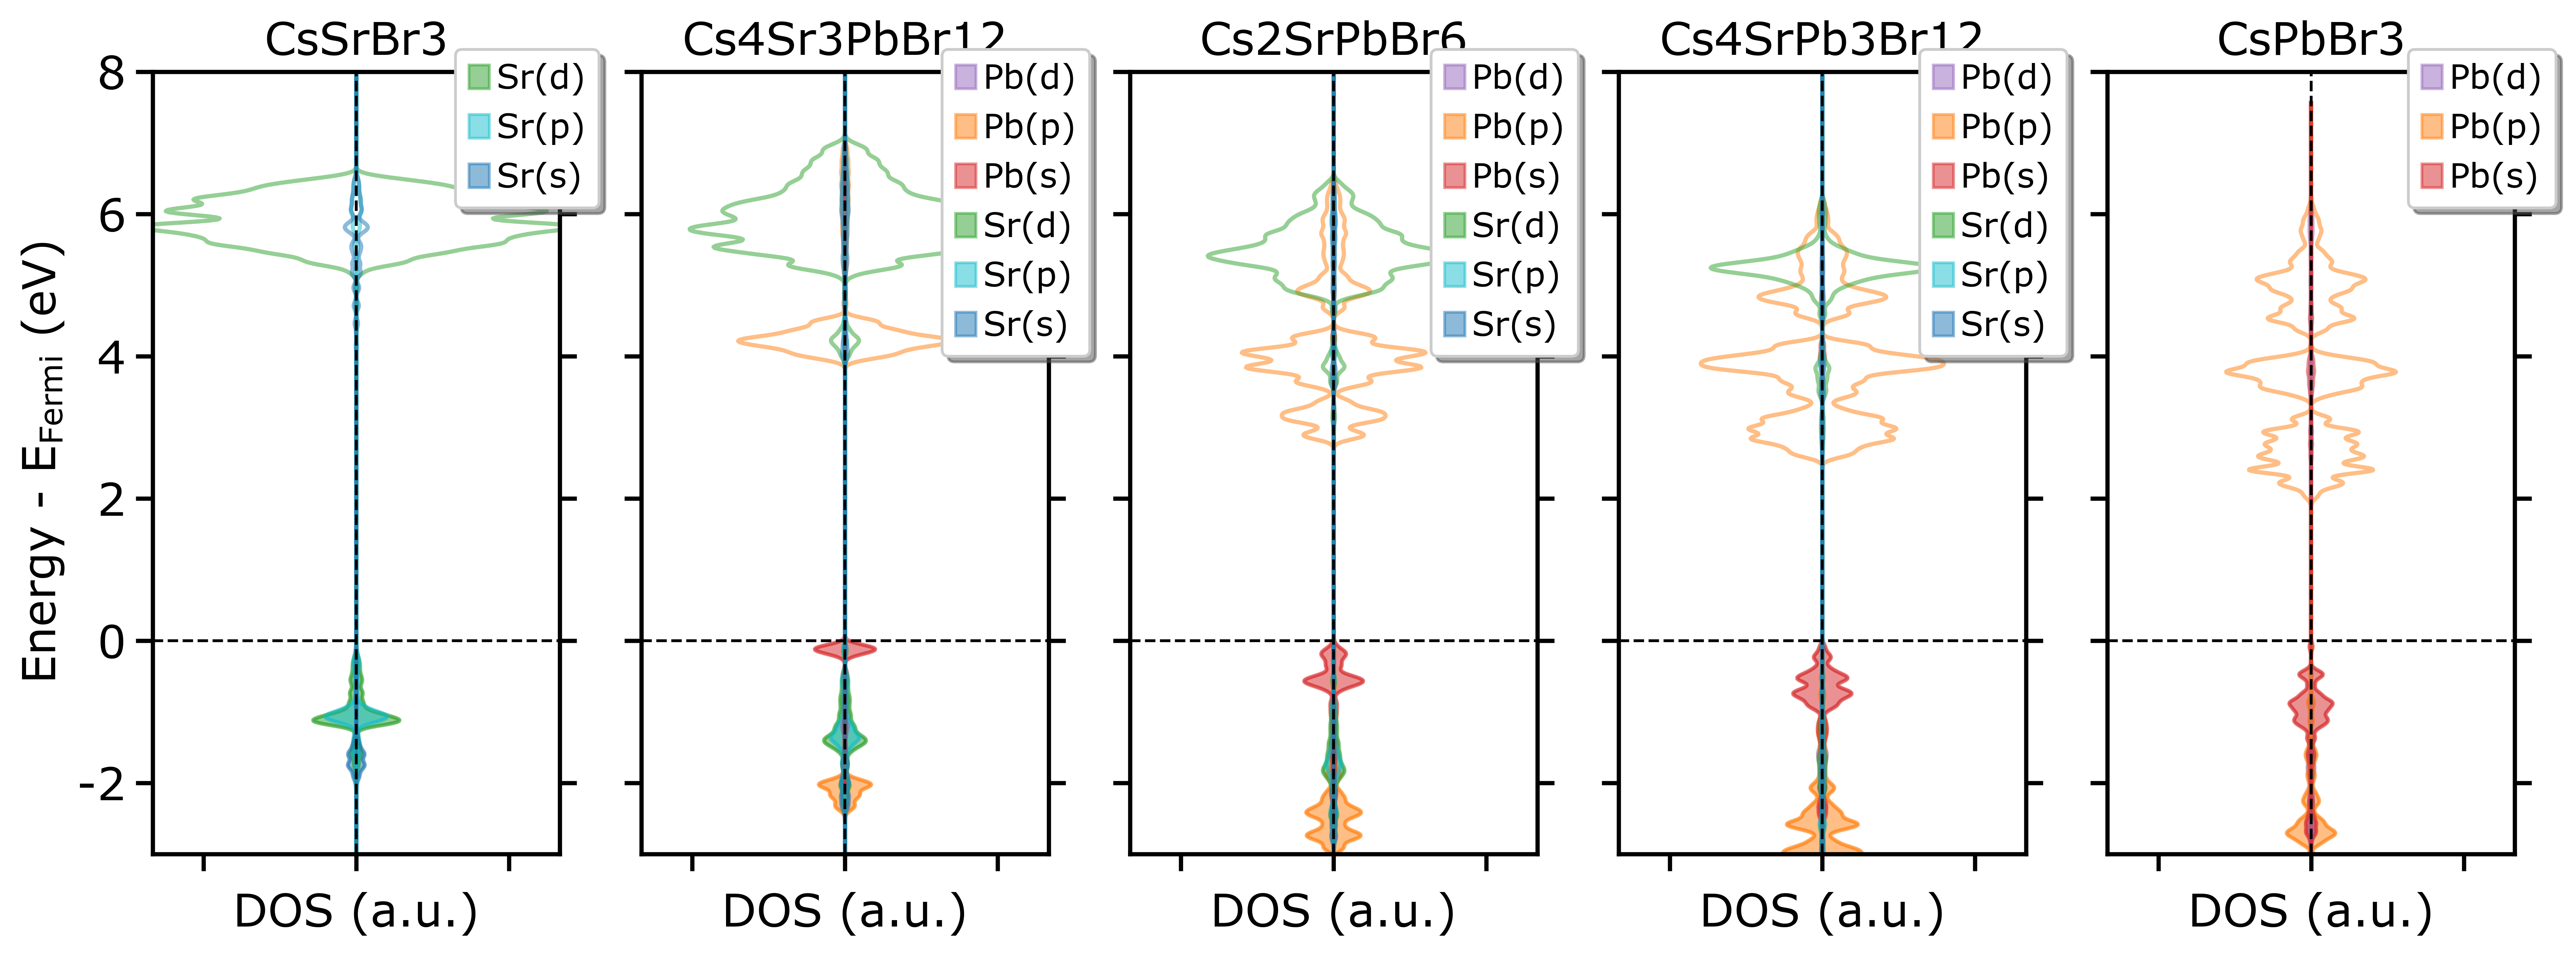
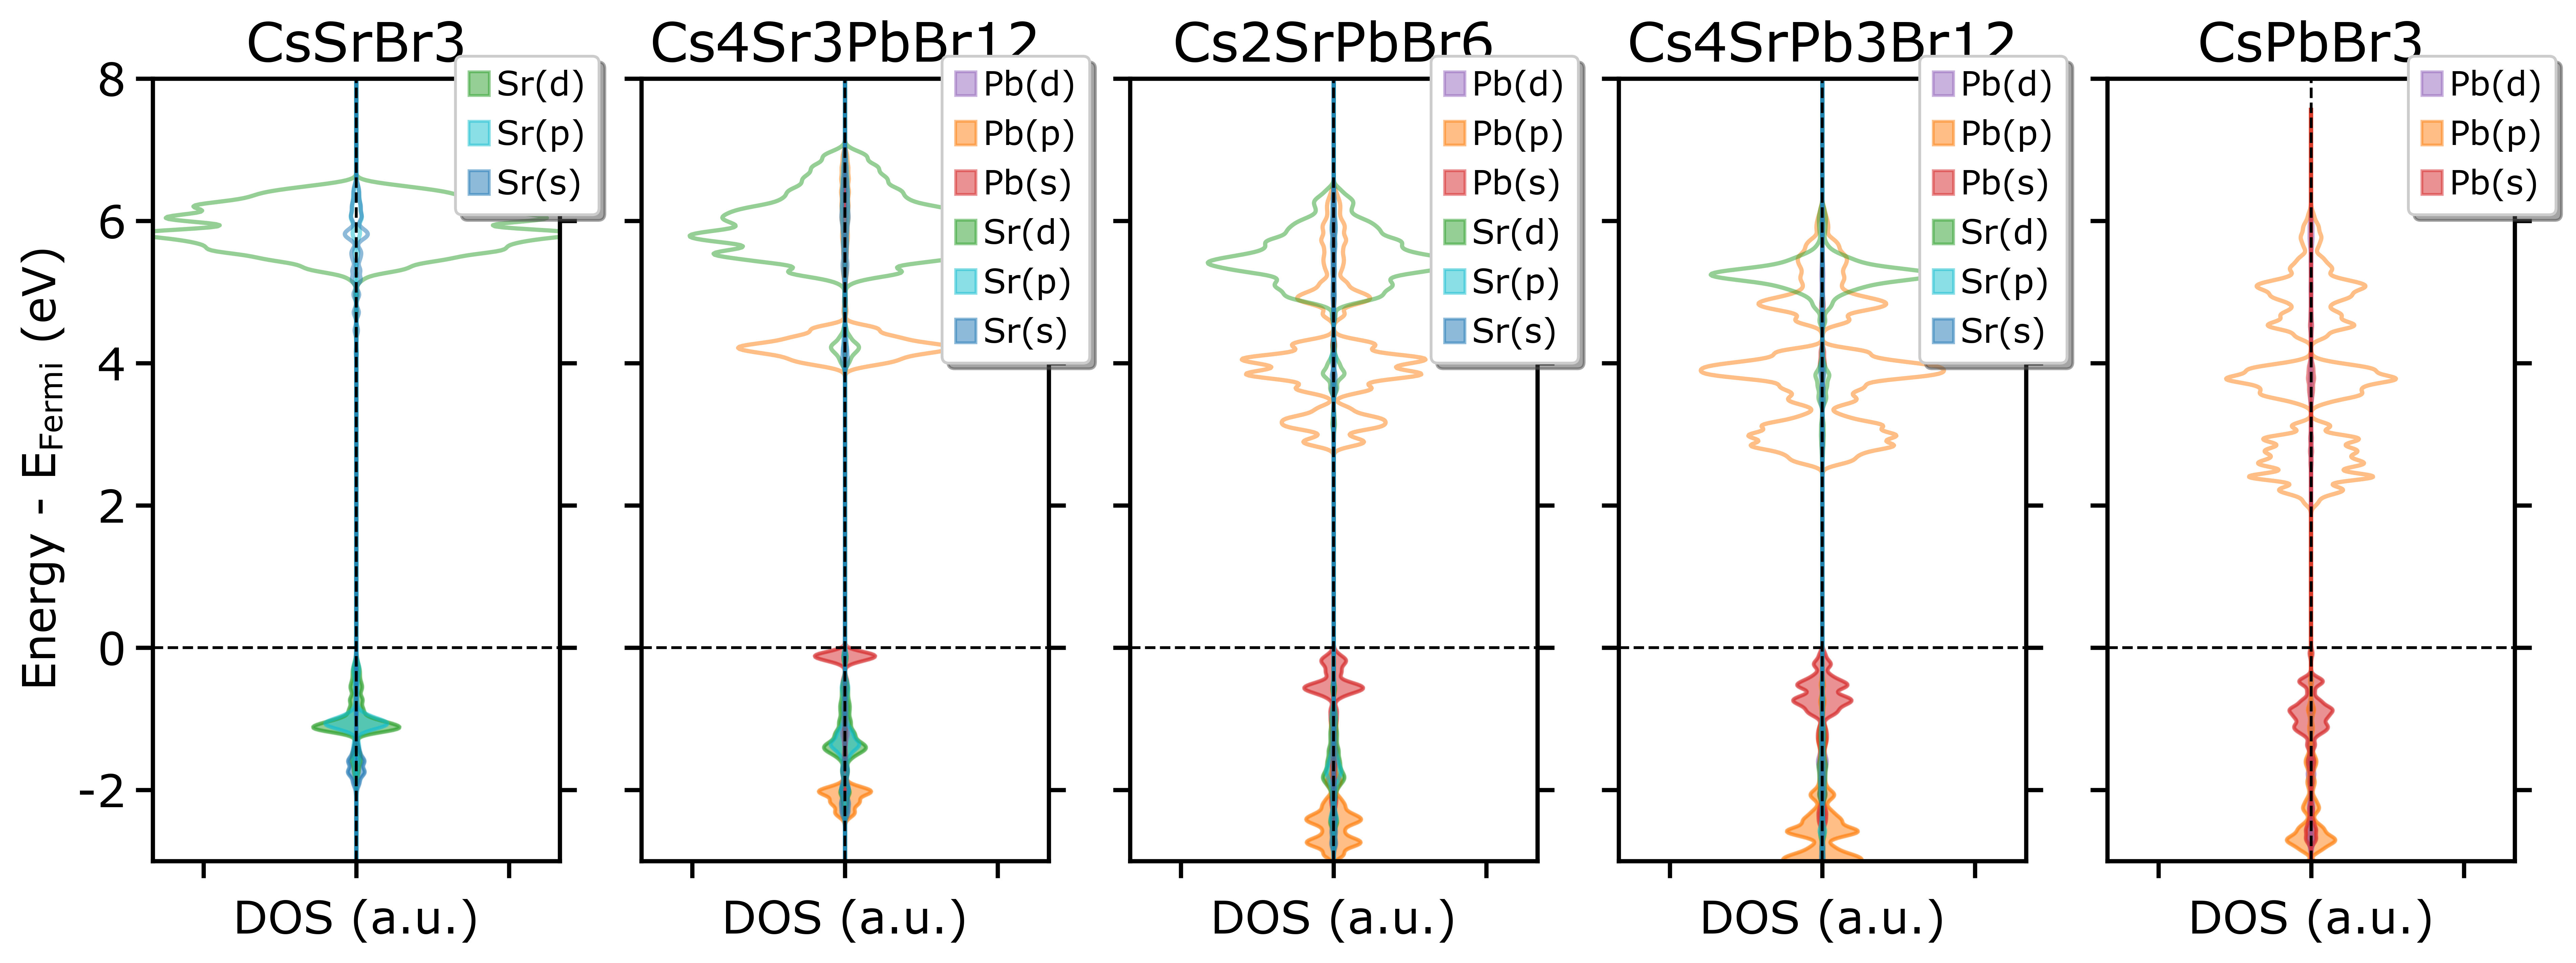
Notebook cleanup, README updated to reflect changes

diff --git a/README.md b/README.md
@@ -18,15 +18,15 @@ Inorganic halide perovskites (IHPs) are promising optoelectronic materials, but 
 
 | Section | Notebook | Status |
 |---|---|---|
-| Thermodynamic stability (mixing/formation enthalpies, entropy, free energy) | [`1_thermodynamic.ipynb`](1_thermodynamic.ipynb) | Complete |
-| Electronic structure (band gaps, orbital coupling/DOS analysis) | [`2_electronic.ipynb`](2_electronic.ipynb) | In progress |
+| Thermodynamic stability (mixing/formation enthalpies, entropy, free energy) | [`1_thermodynamic.ipynb`](1_thermodynamic.ipynb) | Working notebook, needs commenting |
+| Electronic structure (band gaps, orbital coupling/DOS analysis) | [`2_electronic.ipynb`](2_electronic.ipynb) | Working notebook, needs commenting |
 
 ## Repository Structure
 
 ```
 .
 ├── 1_thermodynamic.ipynb      # Reproduces stability figures (dHmix, dHd, entropy/free energy)
-├── 2_electronic.ipynb         # Electronic structure analysis (WIP)
+├── 2_electronic.ipynb         # Electronic structure analysis (band gap bowing, pDOS)
 ├── data/
 │   ├── DFT results/           # DFT-at-MLIP results and derived alloy/pure-phase dataframes
 │   ├── DFT dos/                # Density-of-states data for electronic structure analysis (WIP)
@@ -35,6 +35,8 @@ Inorganic halide perovskites (IHPs) are promising optoelectronic materials, but 
 └── manuscript_figures/         # Output figures matching manuscript figure numbers
 ```
 
+**Note on `dos_helper.py`:** the DOS/PDOS plotting utilities in this file were originally written by Nicholas Singstock, Ph.D., and are used here (with thanks) to generate the density-of-states figures in `2_electronic.ipynb`.
+
 ## Reproducing the Figures
 
 Each notebook reads data from `data/` (relative paths) and writes figures to `manuscript_figures/`. Notebook 1 currently reproduces:
@@ -42,9 +44,11 @@ Each notebook reads data from `data/` (relative paths) and writes figures to `ma
 - **Figure 2** — mixing enthalpy vs. decomposition enthalpy across all alloys
 - **Figure 3** — alloy stability relative to the min/max stability of constituent ABX3 phases
 - **Figure S6 / S7** — free energy of decomposition at T = 300 K / 500 K, incorporating configurational entropy
+- **Figure 4** — (a) discontinuous vs (b) continuous band gap change vs composition
+- **Figure 5 / 6** — Projected DOS of KRb(Mg_(1-x)Ni_(x))_2F_6 (discontinuous) and Cs_2(Sr_(1-x)Pb_(x))_2Br_6 (continuous)
 
 **Dependencies:** `pymatgen`, `ase`, `numpy`, `pandas`, `scipy`, `seaborn`, `matplotlib`. A pinned `environment.yml`/`requirements.txt` will be added once the environment is finalized.
 
 ## Citation
 
-Citation details (BibTeX) will be added once the manuscript is formally published.
+Citation details will be added once the manuscript is formally published.